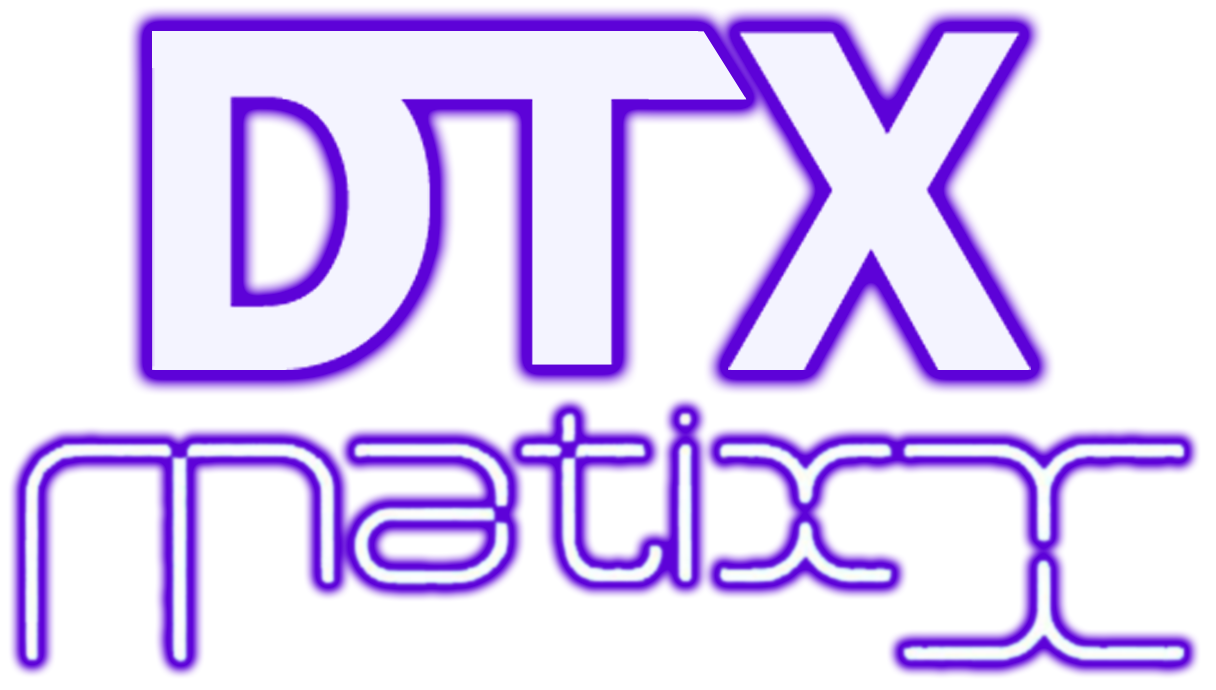
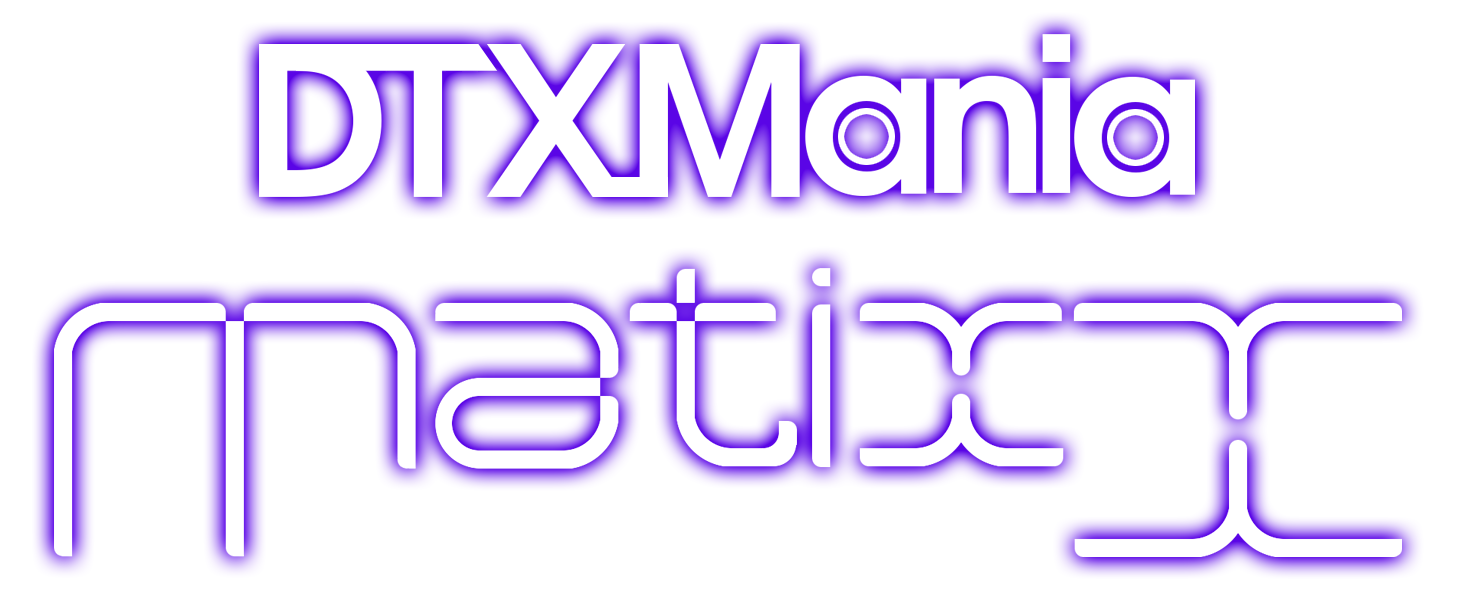
タイトルを一新。
DTXMania matixx に改名。

diff --git a/DTXmatixx/ステージ/選曲/曲リスト.cs b/DTXmatixx/ステージ/選曲/曲リスト.cs
@@ -4,6 +4,8 @@ using System.Diagnostics;
 using System.Linq;
 using SharpDX;
 using SharpDX.Animation;
+using SharpDX.Direct2D1;
+using SharpDX.DirectWrite;
 using FDK;
 using FDK.メディア;
 using DTXmatixx.曲;
@@ -51,6 +53,8 @@ namespace DTXmatixx.ステージ.選曲
 				#endregion
 
 				this._曲リストのスクロール割合 = new Variable( gd.Animation.Manager, initialValue: 0.0 );
+				this._曲名フォーマット = new TextFormat( gd.DWriteFactory, "メイリオ", FontWeight.UltraBlack, FontStyle.Normal, 40.0f );
+				this._曲名の色 = new SolidColorBrush( gd.D2DDeviceContext, Color4.White );
 			}
 		}
 		protected override void On非活性化( グラフィックデバイス gd )
@@ -58,6 +62,7 @@ namespace DTXmatixx.ステージ.選曲
 			using( Log.Block( FDKUtilities.現在のメソッド名 ) )
 			{
 				FDKUtilities.解放する( ref this._曲リストのスクロール割合 );
+				FDKUtilities.解放する( ref this._曲名の色 );
 			}
 		}
 		public void 進行描画する( グラフィックデバイス gd )
@@ -155,6 +160,15 @@ namespace DTXmatixx.ステージ.選曲
 			#endregion
 			#region " タイトル文字列 "
 			//----------------
+			gd.D2DBatchDraw( ( dc ) => {
+
+				dc.DrawText(
+					ノード.タイトル,
+					this._曲名フォーマット,
+					new RectangleF( this._曲リストの基準左上隅座標dpx.X + 170f, this._曲リストの基準左上隅座標dpx.Y + ( 行番号 * _ノードの高さdpx ), 855f - 170f, _ノードの高さdpx ),
+					this._曲名の色 );
+
+			} );
 			//----------------
 			#endregion
 			#region " サブ文字列（フォーカスノードのみ）"
@@ -185,5 +199,8 @@ namespace DTXmatixx.ステージ.選曲
 		///		0.0 で基準（静止）位置、-1.0 で上に１行、+1.0 で下に１行ずれている状態。
 		/// </summary>
 		private Variable _曲リストのスクロール割合 = null;
+
+		private TextFormat _曲名フォーマット = null;
+		private SolidColorBrush _曲名の色 = null;
 	}
 }

diff --git a/DTXmatixx/App.cs b/DTXmatixx/App.cs
@@ -55,6 +55,8 @@ namespace DTXmatixx
 
 			this._活性化する();
 
+			//base.全画面モード = true;
+
 			// 最初のステージへ遷移する。
 			App.ステージ管理.ステージを遷移する( App.グラフィックデバイス, App.ステージ管理.最初のステージ名 );
 		}
@@ -202,6 +204,7 @@ namespace DTXmatixx
 						//----------------
 						if( stage.現在のフェーズ == ステージ.曲ツリー構築.曲ツリー構築ステージ.フェーズ.確定 )
 						{
+#warning いきなり選曲すてーじへ遷移。
 							//App.ステージ管理.ステージを遷移する( gd, nameof( ステージ.タイトル.タイトルステージ ) );
 							App.ステージ管理.ステージを遷移する( gd, nameof( ステージ.選曲.選曲ステージ ) );
 						}

diff --git a/DTXmatixx/ステージ/タイトル/タイトルステージ.cs b/DTXmatixx/ステージ/タイトル/タイトルステージ.cs
@@ -31,7 +31,7 @@ namespace DTXmatixx.ステージ.タイトル
 		public タイトルステージ()
 		{
 			this.子リスト.Add( this._舞台画像 = new 舞台画像() );
-			this.子リスト.Add( this._タイトルロゴ = new 画像( @"$(System)images\タイトルロゴ（読みあり）.png" ) );
+			this.子リスト.Add( this._タイトルロゴ = new 画像( @"$(System)images\タイトルロゴ.png" ) );
 			this.子リスト.Add( this._パッドを叩いてください = new 文字列画像( "パッドを叩いてください", 40f ) );
 		}
 		protected override void On活性化( グラフィックデバイス gd )

diff --git a/DTXmatixx/ステージ/アイキャッチ/回転幕.cs b/DTXmatixx/ステージ/アイキャッチ/回転幕.cs
@@ -679,7 +679,7 @@ namespace DTXmatixx.アイキャッチ
 		protected 黒幕[] _黒幕 = null;
 
 		protected 画像 _ロゴ = null;
-		protected readonly RectangleF _ロゴ表示領域 = new RectangleF( ( 1920f - 600f ) / 2f, ( 1080f - 350f ) / 2f, 600f, 350f );
+		protected readonly RectangleF _ロゴ表示領域 = new RectangleF( ( 1920f - 730f ) / 2f, ( 1080f - 300f ) / 2f, 730f, 300f );
 
 		/// <summary>
 		///		1:全表示 ... 0:非表示

diff --git a/DTXmatixx/ステージ/ステージ管理.cs b/DTXmatixx/ステージ/ステージ管理.cs
@@ -29,6 +29,8 @@ namespace DTXmatixx.ステージ
 			{ nameof( 認証.認証ステージ ), new 認証.認証ステージ() },
 			{ nameof( 選曲.選曲ステージ ), new 選曲.選曲ステージ() },
 		};
+
+		// 全ステージで共通のアイキャッチインスタンス。ステージ間をまたいで描画することができる。
 		public アイキャッチ.シャッター シャッター
 		{
 			get;

diff --git a/DTXmatixx/ステージ/アイキャッチ/シャッター.cs b/DTXmatixx/ステージ/アイキャッチ/シャッター.cs
@@ -376,6 +376,6 @@ namespace DTXmatixx.アイキャッチ
 		protected 画像 _ロゴ = null;
 		protected Variable _ロゴ不透明度 = null;
 		protected Storyboard _ロゴボード = null;
-		protected readonly RectangleF _ロゴ表示領域 = new RectangleF( 1200f, 650f, 600f, 350f );
+		protected readonly RectangleF _ロゴ表示領域 = new RectangleF( 1100f, 700f, 730f, 300f );
 	}
 }
